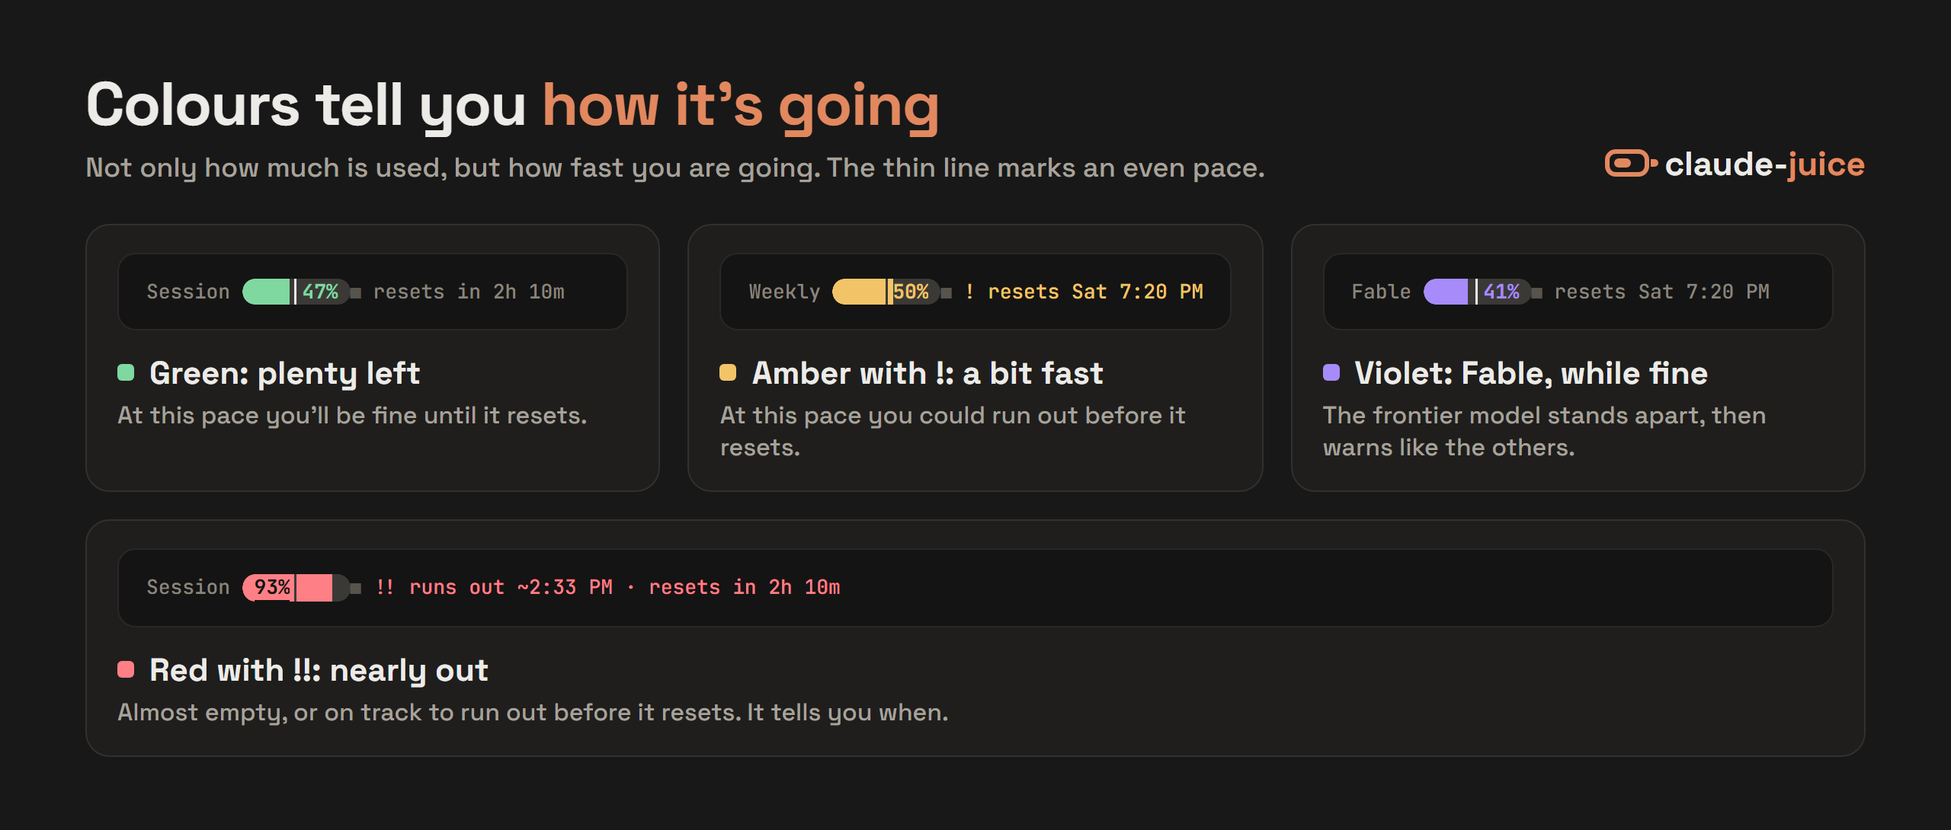
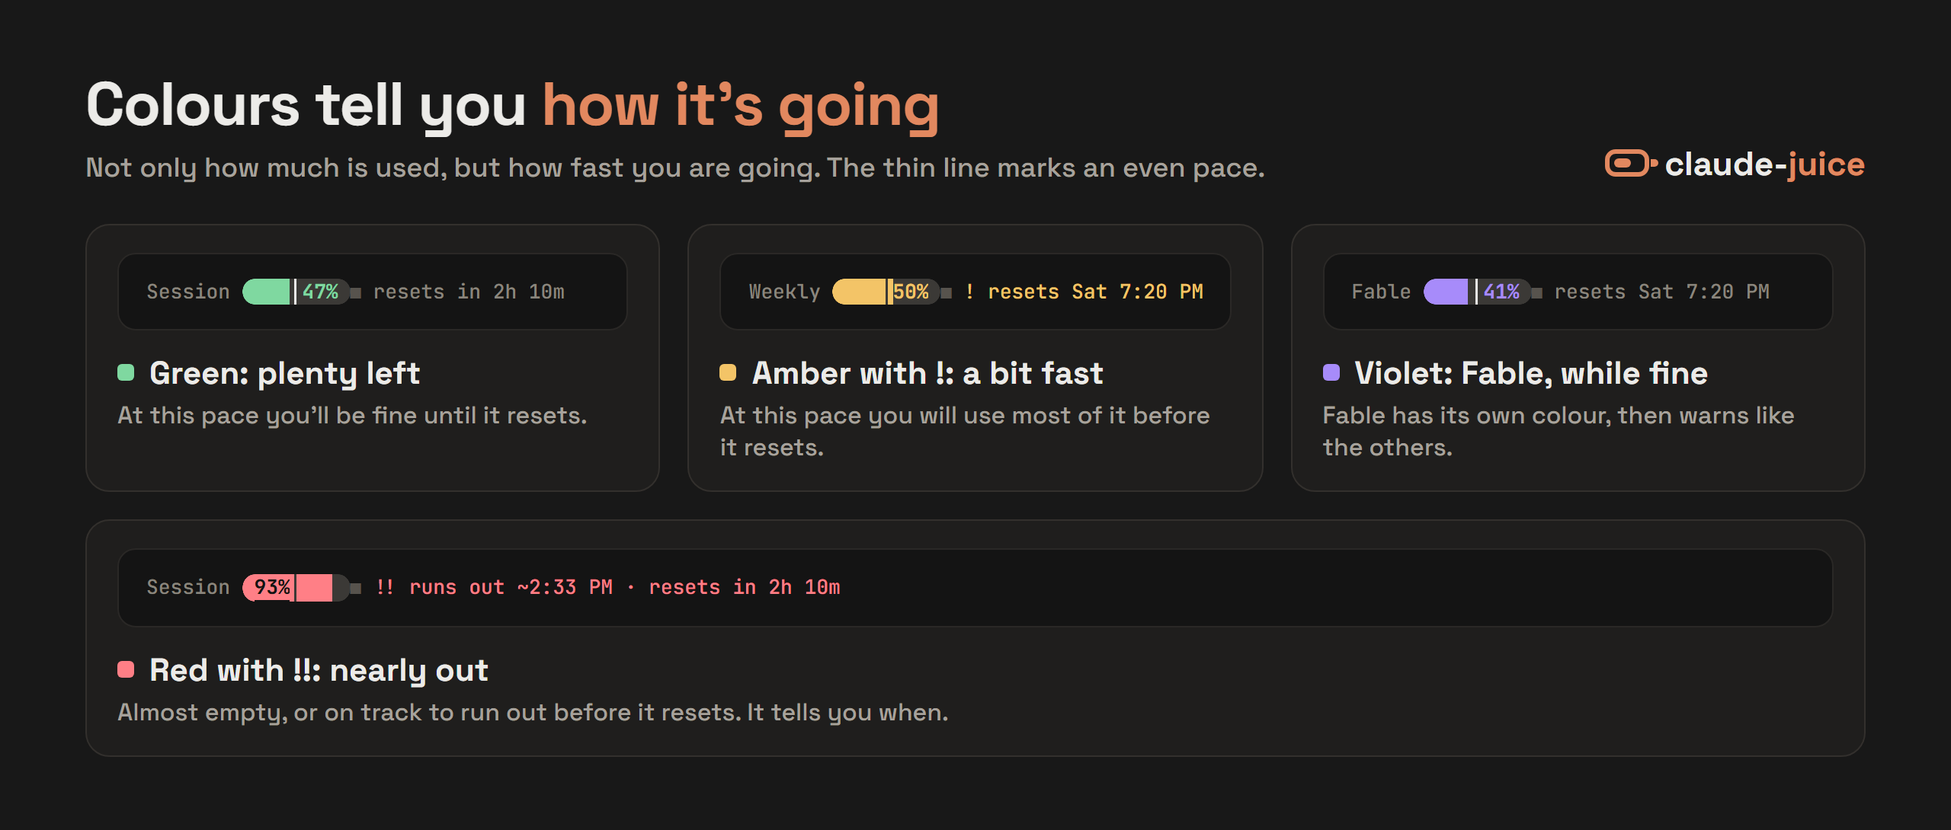
docs: README checked against 1.0.2, a professional GitHub page
The README, changelog, checklist and customizer are corrected wherever
they disagreed with what juice 1.0.2 does (Fable's colour per set, what
a look resets, when batteries fill in, Budget, badge limits, leftovers).
The README gains status badges, a "tested on" line and a help section.
New: SECURITY.md (private reports), CONTRIBUTING.md and a bug-report
form that asks for /juice doctor. The features, colours and looks
pictures are redrawn; the looks show whole, one per row.

Changed region(s): [[0.6562, 0.4679, 0.9062, 0.5615], [0.4688, 0.4679, 0.625, 0.5303], [0.375, 0.5303, 0.4375, 0.5615]]

diff --git a/web/index.html b/web/index.html
@@ -200,6 +200,7 @@ button:focus-visible,summary:focus-visible,select:focus-visible,input:focus-visi
       <div class="cmd"><code id="install1">/plugin marketplace add zdraveski/claude-juice</code><button class="btn ghost" type="button" data-copy="install1">Copy</button></div>
       <div class="cmd"><code id="install2">/plugin install juice@juice</code><button class="btn ghost" type="button" data-copy="install2">Copy</button></div>
       <div class="cmd"><code id="install3">/juice setup</code><button class="btn ghost" type="button" data-copy="install3">Copy</button></div>
+      <p class="hint">If Claude Code says it doesn't know <code>/juice</code> yet, restart it and type <code>/juice setup</code> again.</p>
     </div></div>
     <div class="sub"><span class="num">2</span><div class="body">
       <div class="t">Apply your settings</div>

diff --git a/README.md b/README.md
@@ -1,8 +1,10 @@
 # juice
 
+[![Tests](https://github.com/zdraveski/claude-juice/actions/workflows/test.yml/badge.svg?branch=main)](https://github.com/zdraveski/claude-juice/actions/workflows/test.yml) [![Latest release](https://img.shields.io/github/v/release/zdraveski/claude-juice?label=release)](https://github.com/zdraveski/claude-juice/releases/latest) [![Node 18 or newer](https://img.shields.io/badge/node-18%2B-5fa04e)](https://nodejs.org) [![License: MIT](https://img.shields.io/github/license/zdraveski/claude-juice)](LICENSE)
+
 Juice replaces the row under your Claude Code prompt with little batteries. Each battery shows how much you have **used**, counted the same way as Anthropic's usage page, and when it resets.
 
-![claude-juice: your Claude usage at a glance. A battery-style status line for Claude Code, showing Memory, Session, Fable and Weekly and when each one resets.](docs/images/hero.png)
+![claude-juice: your Claude usage at a glance. A battery-style status line for Claude Code, showing Memory, Session, Fable and Weekly, and when Session and Weekly reset.](docs/images/hero.png)
 
 <p align="center">
   <a href="https://zdraveski.github.io/claude-juice/web/"><img src="docs/images/open-customizer.png" alt="Open the live customizer" width="340"></a>
@@ -12,7 +14,7 @@ Juice replaces the row under your Claude Code prompt with little batteries. Each
 
 ## What you get
 
-![Everything juice gives you: used % like Anthropic, when every limit resets, ! and !! warnings, a violet Fable battery, 12 ready-made looks, 13 colour sets, live numbers in every window, the /juice command, and a one-step undo.](docs/images/features.png)
+![Everything juice gives you: used % like Anthropic, when every limit resets, ! and !! warnings, a violet Fable battery, 12 ready-made looks, 13 colour sets, live numbers in every window (with the Fable battery on), the /juice command, and a one-step undo.](docs/images/features.png)
 
 ## Install
 
@@ -26,6 +28,12 @@ You need Node 18 or newer. To check, type `node --version` in a terminal. If you
 
 If Claude Code says it doesn't know `/juice` yet, restart Claude Code and type `/juice setup` again. Juice saves your old status line first, if you had one, so `/juice restore` can always bring it back.
 
+The very first time, the batteries fill in after Claude's first reply; until then only the model and effort level show. After that, a new chat shows Session and Weekly straight away, and Memory after the first reply.
+
+At work behind a company proxy? The Fable battery needs Node 24 or newer there (or 22.21 or newer on Node 22).
+
+Tested by hand in Windows Terminal and VS Code on Windows. The automatic tests run on Windows, macOS and Linux with Node 18, 22 and 24. On a Mac or Linux, please [tell us](https://github.com/zdraveski/claude-juice/issues/new?template=bug_report.yml) if something looks off.
+
 ## What the batteries mean
 
 ![Reading the status line, left to right: the model, the effort level from low to max, Memory (room used in this chat), Session (your 5-hour limit), when it resets, Fable (its own weekly limit), Weekly (your weekly limit), and ! or !! when it is going fast or nearly out.](docs/images/anatomy.png)
@@ -34,27 +42,27 @@ If Claude Code says it doesn't know `/juice` yet, restart Claude Code and type `
 |---|---|
 | Memory | How much of this chat's room is used. When it fills up, Claude summarises the chat to make space. |
 | Session | Your 5-hour limit. |
-| Fable weekly | The separate weekly limit for the Fable model. One-line layouts call it "Fable"; the panel says "Fable weekly". It resets together with Weekly, so it shows no reset time of its own while Weekly is shown. When it is red it still says when it runs out. |
+| Fable weekly | The separate weekly limit for the Fable model. It is called "Fable weekly" in the panel and as the big battery in Tightest first (the Spotlight and Easy to see looks), and "Fable" elsewhere. It resets together with Weekly, so it shows no reset time of its own while Weekly is shown. When it is red it still says when it runs out. |
 | Weekly | Your weekly limit. |
-| Budget | Only if your company gives you Claude Code through a gateway with a spending limit: how much of that budget is used. It has no pace: it turns amber past 85% used and red past 90%. |
+| Budget | Only if your company gives you Claude Code through a gateway with a spending limit: how much of that budget is used. It has no pace: it turns amber with ! at 85% used and red with !! at 90%. |
 
 Next to the batteries you also see the model's name and its effort level: a little staircase that climbs from 1 step (low) to 5 steps (max), with the word beside it.
 
 The rounded battery ends in the pictures show on their own in VS Code. Other terminals get plain ends, because some fonts draw the rounded ones as boxes; if yours can draw them, type `/juice use round ends`.
 
-Session and Weekly also say when they reset: how long, when it is less than a day away ("resets in 1h 31m"), and otherwise which day and at what time ("resets Sat 7:20 PM", or "Nov 10, 6:23 PM" when it is more than a week away). Times are in your computer's time zone; on a computer set to UTC, such as a server you reach over SSH, they say "UTC". In a narrow window it is the short countdown ("resets 2d 5h").
+Session and Weekly also say when they reset: how long, when it is less than a day away ("resets in 1h 31m"), and otherwise which day and at what time ("resets Sat 7:20 PM", or "resets next Wed 2:19 PM" when it is a week away). Times are in your computer's time zone; on a computer set to UTC, such as a server you reach over SSH, they say "UTC". In a narrow window it is the short countdown ("resets 2d 5h").
 
 The colours for Session, Weekly and Fable weekly depend on your pace as well as on how much is used:
 
 - Green means plenty left.
-- Amber with ! means you are going a bit fast. At this pace you could run out before it resets.
-- Red with !! means almost empty, or more than half used and on track to run out before it resets. A red battery also says when it runs out at this pace, for example "runs out ~4:04 PM · resets in 2h 10m".
+- Amber with ! means you are going a bit fast. At this pace you will use most of it (85% or more) before it resets.
+- Red with !! means almost empty, or more than half used and on track to run out before it resets. A red battery that is on track to run out also says when, for example "runs out ~4:04 PM · resets in 2h 10m".
 
 A limit that is used up always shows, even in a look that leaves it out (Fable weekly while you are using Fable), so you never see "all fine" while you are locked out.
 
-A thin line on these batteries marks where you would be if you used the limit evenly. If the colour reaches past the line, you are going faster than that. Before the line, you have time to spare.
+In every layout except Classic segments, a thin line on these batteries marks where you would be if you used the limit evenly. If the colour reaches past the line, you are going faster than that. Before the line, you have time to spare.
 
-The Fable bar is violet while it is fine, so you can tell it apart at a glance. When it goes fast or runs low, it turns amber or red with ! or !! like the others.
+The Fable bar has its own colour while it is fine (violet in most colour sets, pink-purple in Colour-blind safe, and grey like the rest in Calm), so you can tell it apart at a glance. When it goes fast or runs low, it turns amber or red with ! or !! like the others.
 
 ![Colours tell you how it is going: green means plenty left, amber with ! means going a bit fast, red with !! means nearly out and says when it runs out, and Fable is violet while it is fine. A thin line on each battery marks an even pace.](docs/images/colours.png)
 
@@ -92,7 +100,7 @@ Each battery gets its own row, with the most detail.
 
 ## Ready-made looks
 
-A look picks the layout, the colours and what shows, all in one go. Your badges and Fable setting stay as they are. Pick one, then change anything you like.
+A look sets the layout, the colours, what shows, the cost, the reset times and the battery ends, all in one go. Your terminal colour, Fable setting and badges stay as they are. Pick one, then change anything you like. (If you chose round or plain ends yourself, type `/juice use round ends` or `/juice use plain ends` again after picking a look.)
 
 ![The 12 ready-made looks, each drawn as it really looks: Juice, Just the basics, Spotlight, Everything, Retro phone, Quiet, Night owl, Easy to see, Colour-blind friendly, Works everywhere, Cost watcher and Fable first.](docs/images/looks.png)
 
@@ -126,6 +134,7 @@ Type `/juice` and then say what you want, in your own words. For example:
 - `/juice show the reset times only when something needs attention`
 - `/juice make it a panel`
 - `/juice my terminal is light` (if the text is hard to read on a light background)
+- `/juice customize` (opens the live customizer with your current settings)
 
 In a narrow window juice makes room step by step: first badges, reset times, the effort word and cost, then the effort level and the model name, then spacing, battery size and shorter words, then every battery as words only (`Session 88%!! out ~2:44 PM`), then the batteries that are fine, then the amber ones, and last a red battery's words ("out ~2:44 PM"), so a red battery itself is the last thing to go. Whatever freed room gets used again, so a battery keeps its picture whenever it fits. Only in a very small window is the end of the line cut.
 
@@ -143,7 +152,7 @@ In a narrow window juice makes room step by step: first badges, reset times, the
 
 ## If something looks wrong
 
-Type `/juice doctor` first. It checks, in plain words, whether juice is your status line, which juice it runs, whether drawing works with your settings, when juice last saw your limits, how the Fable battery is doing and the last problem the status line hit, and says what to do about each. It never shows your badge commands or another status line's command, and your home folder reads `~`, so it doesn't show your user name. If you ask for help, include what it says.
+Type `/juice doctor` first. It checks, in plain words, your Node version, whether juice is your status line, which juice it runs, whether a project setting hides it, whether your juice settings and badges are usable, whether drawing works with them, when juice last saw your limits, how the Fable battery is doing and the last problem the status line hit, and says what to do about each. It never shows your badge commands or another status line's command, and your home folder reads `~`, so it doesn't show your user name. If you ask for help, [open a bug report](https://github.com/zdraveski/claude-juice/issues/new?template=bug_report.yml) and include what it says.
 
 - **The status line is empty.** Type `/juice setup` again; it repairs the line and says if a project setting or `disableAllHooks` is hiding it. If it is still empty, check that Node is installed (type `node --version` in a terminal; you need 18 or newer, from nodejs.org), then restart Claude Code.
 - **The text is hard to read on a light background.** Type `/juice my terminal is light`.
@@ -155,17 +164,25 @@ Type `/juice doctor` first. It checks, in plain words, whether juice is your sta
 - **Update:** open `/plugin`, pick juice, and update it, then restart Claude Code. Your settings and badges stay. [What's new](CHANGELOG.md) lists what each version changed.
 - **Undo:** `/juice restore` puts your old status line back.
 - **Uninstall:** run `/juice restore` first, then remove juice in `/plugin`. If you uninstall first, the status line tells you how to get back.
-- **Leave nothing behind:** after uninstalling, juice's own files are still in your Claude folder (`~/.claude`): `juice.json` (your settings and badge commands), the `juice-cache` folder (usage numbers, the approval of your badges, and, for up to a week, which project each chat was in), any `juice-backup-….json` copies, and `juice-statusline.mjs` if you uninstalled before `/juice restore`. Delete them if you want nothing left. (Deleting `juice-cache` while juice is installed is harmless, except that your badges then need adding again.)
+- **Leave nothing behind:** after uninstalling, juice's own files are still in your Claude folder (`~/.claude`, or your `CLAUDE_CONFIG_DIR` folder): `juice.json` (your settings and badge commands), the `juice-cache` folder (usage numbers, a list of recent chats, and, if you use badges, their approval and what Claude Code told the status line about each chat, including its project folder), any older `juice-backup-….json` copies, and, if you uninstalled before `/juice restore`, `juice-statusline.mjs`, `juice-backup.json` (your old status line) and the `statusLine` entry in `settings.json` (Claude can remove it for you). Delete them if you want nothing left. (Deleting `juice-cache` while juice is installed is harmless, except that your badges then need adding again.)
 
 ## Badges
 
-Badges are small optional extras that show the output of a command you choose. Juice only runs commands you added yourself on this computer with `/juice badges add`, after it shows you the command: each one is approved with a secret that stays on this computer, so a `juice.json` copied from somewhere else never runs anything. (Badges added before juice 0.2.5 need adding again; `/juice badges list` marks them.) `/juice badges list` shows them numbered, and `/juice badges remove 1` removes the first one, after asking. Badges update about every 30 seconds while you work. On Windows, badge commands run in the Windows command prompt (cmd), not Git Bash, so write them for cmd.
+Badges are small optional extras that show the output of a command you choose. Juice only runs commands you added yourself on this computer with `/juice badges add`, after it shows you the command: each one is approved with a secret that stays on this computer, so a `juice.json` copied from somewhere else never runs anything. (Badges added before juice 0.2.5 need adding again; `/juice badges list` marks them.) `/juice badges list` shows them numbered, and `/juice badges remove 1` removes the first one, after asking. Badges update about every 30 seconds while you work. Only the first line of a command's output shows, up to 40 characters; a command that takes longer than 2 seconds is stopped and keeps its last text; the command gets the same details Claude Code gives the status line (the folder, chat and cost); and badges are the first thing a narrow window hides. On Windows, badge commands run in the Windows command prompt (cmd), not Git Bash, so write them for cmd.
 
 ## Privacy
 
 - The Fable battery needs your Claude login token, the key Claude Code keeps on your computer to sign you in. Juice reads it from `~/.claude/.credentials.json`.
-- The Fable battery is on by default on Windows and Linux. On a Mac it stays off until you type `/juice set fable=on`, and macOS will then ask once for permission to read it from the Keychain (the Mac's password store). This is new on the Mac: if macOS asks more than once, or the battery doesn't appear within a few minutes, please [tell us](https://github.com/zdraveski/claude-juice/issues/new) what `/juice doctor` says. Share links and the customizer's command never turn it on or off; only you do.
+- The Fable battery is on by default on Windows and Linux. On a Mac it stays off until you type `/juice set fable=on`, and macOS will then ask once for permission to read it from the Keychain (the Mac's password store). This is new on the Mac: if macOS asks more than once, or the battery doesn't appear within a few minutes, please [tell us](https://github.com/zdraveski/claude-juice/issues/new?template=bug_report.yml) what `/juice doctor` says. Share links and the customizer's command never turn it on or off; only you do.
 - Juice sends that token only to `api.anthropic.com`, to read your usage, about every 5 minutes. It never stores or logs it.
-- The same usage reading also keeps Session and Weekly up to date in every window, including idle ones and brand-new chats. With the Fable battery off, those two come only from Claude Code itself, so an idle window can show older numbers.
+- The same usage reading also keeps Session and Weekly up to date in every window, including idle ones and brand-new chats. With the Fable battery off (as it is on a Mac until you turn it on), those two come only from Claude Code itself, so an idle window can show older numbers.
 - To switch the Fable battery off, run `/juice set fable=off`.
 - Badges only run commands you added yourself with `/juice badges add`, after juice shows you the command.
+
+## Help and feedback
+
+- Something wrong? [Open a bug report](https://github.com/zdraveski/claude-juice/issues/new?template=bug_report.yml) with what `/juice doctor` says.
+- A security problem? Please report it privately, as [SECURITY.md](SECURITY.md) explains, not in a public issue.
+- Want to change the code? See [CONTRIBUTING.md](CONTRIBUTING.md).
+
+juice is free and open source under the [MIT license](LICENSE). It is not made by Anthropic.

diff --git a/CONTRIBUTING.md b/CONTRIBUTING.md
@@ -1,0 +1,37 @@
+# Contributing
+
+Thanks for helping. A few things to know first.
+
+## The basics
+
+- juice is plain Node.js (18 or newer) with no dependencies. There is nothing to install.
+- `main` is what everyone installs: the plugin store serves it straight away. Work on a branch and open a pull request; nothing reaches `main` until it is reviewed.
+- Tests: `node --test`. GitHub runs them on Windows, macOS and Linux with Node 18, 22 and 24 for every branch.
+- Before a release, also run `node scripts/e2e.mjs` (end to end), `node scripts/bench.js` (speed: juice may add at most 75 ms) and `node scripts/check-customizer.js` (the web customizer, needs Playwright). The full list is in [docs/release/checklist.md](docs/release/checklist.md).
+
+## Never touch your real Claude folder while testing
+
+The status line writes to your Claude folder, and a refresh run from a copy of the code points your real status line at that copy. Always set `CLAUDE_CONFIG_DIR` to a throwaway folder:
+
+```sh
+export CLAUDE_CONFIG_DIR="$(mktemp -d)"
+node bin/juice.js looks          # every look, drawn with sample numbers
+rm -rf "$CLAUDE_CONFIG_DIR"
+```
+
+The tests already do this. (The `now+…` reset times in `test/fixtures/` are filled in by the tests, so piping a fixture into the status line by hand prints a meaningless reset time.)
+
+## Where things are
+
+| Folder | What is in it |
+|---|---|
+| `bin/` | The status line, the `/juice` command, and the launcher that setup copies into your Claude folder |
+| `src/` | Reading Claude Code's data, settings, setup, the doctor, badges and the Fable battery |
+| `src/render/` | Drawing: layouts, colours, fitting a narrow window |
+| `skills/juice/` | The `/juice` instructions Claude follows |
+| `web/` | The live customizer (GitHub Pages) |
+| `test/` | Tests, with sample status-line input in `test/fixtures/` |
+
+## Writing for juice
+
+juice is for people who don't code. Anything they read (status line, `/juice` replies, README) uses plain words, no jargon, and says what to do next. Record what changed for them in [CHANGELOG.md](CHANGELOG.md).

diff --git a/docs/release/checklist.md b/docs/release/checklist.md
@@ -31,7 +31,7 @@ Use a normal session, not auto mode: auto mode approves on its own, so permissio
 Each step says what passes.
 
 1. **Install.** `/plugin marketplace add zdraveski/claude-juice`, `/plugin install juice@juice`, restart Claude Code, `/juice setup`.
-   Pass: the batteries appear within a minute, and `~/.claude/juice-backup.json` holds your previous status line.
+   Pass: the batteries appear within a minute, and `~/.claude/juice-backup.json` holds your previous status line (its `statusLine` is `null` if you had none).
 2. **Permissions.** `/juice get` and `/juice doctor` run without a permission prompt. `/juice badges add 'echo hi'` shows the
    command and waits; after you say yes, Claude Code asks permission. Fail on any other order.
 3. **PowerShell and `set` (Windows).** Ask `/juice` to set `show=$(whoami)`. Pass: Claude Code asks before running it, or
@@ -42,7 +42,7 @@ Each step says what passes.
    `~/.claude/juice-statusline.mjs`, or ask `/juice` to show nothing) and run it again. Pass: a `!` line names the problem
    and the fix, in plain words, and nothing in the report shows your user name (your home folder reads `~`).
 6. **Reset wording.** Look at the status line. Pass: Session says how long ("resets in 2h 10m"); Weekly says the day and
-   time ("resets Sat 7:20 PM") in your time zone, matching Anthropic's usage page. In a narrow window Weekly may say "resets 3d 5h".
+   time ("resets Sat 7:20 PM", or "resets next Wed 2:19 PM" right after a reset) in your time zone, matching Anthropic's usage page. In a narrow window Weekly may say "resets 3d 5h".
 7. **Restore.** `/juice restore`. Pass: your old status line is back, and `juice-statusline.mjs` and `juice-backup.json` are gone.
 8. **Update.** After publishing a version bump, `/plugin update`. Pass: the old version's folder gets `.orphaned_at`, and the
    line keeps drawing with the new version (`/juice doctor` names it).

diff --git a/SECURITY.md b/SECURITY.md
@@ -1,0 +1,12 @@
+# Security
+
+juice reads your Claude login token (for the Fable battery) and runs badge commands you add yourself, so a security problem in it matters. If you find one, please report it privately:
+
+- **[Report a vulnerability](https://github.com/zdraveski/claude-juice/security/advisories/new)** on GitHub. Only you and the maintainer can see it.
+- Please don't open a public issue for it.
+
+Say what you found, which juice version (`/juice doctor` prints it) and how to reproduce it. A fix ships as a new version, with your report credited unless you'd rather not be named.
+
+Only the newest version gets fixes. To update, open `/plugin` in Claude Code, update juice, then restart Claude Code.
+
+What juice does with your data is in the README's [Privacy](README.md#privacy) section.

diff --git a/CHANGELOG.md b/CHANGELOG.md
@@ -4,7 +4,7 @@ Newest first. To update, type `/plugin`, update juice, then restart Claude Code.
 
 ## 1.0.2 (2026-10-31)
 
-- In a narrow window a red battery never disappears: its "out ~2:44 PM" words go first. In the Everything look, red rows keep their numbers.
+- In a narrow window a red battery's "out ~2:44 PM" words now go before the battery itself. In the Everything look, red rows keep their numbers.
 - 99.5% to 99.9% shows as 99%, not as a used-up 100%.
 - `/juice set` and badges change only what you asked for: a setting from a newer juice, still open in another window, is kept.
 - A status line set up by juice before 0.2.1 is brought up to date on its own (the old one could run another plugin named juice).
